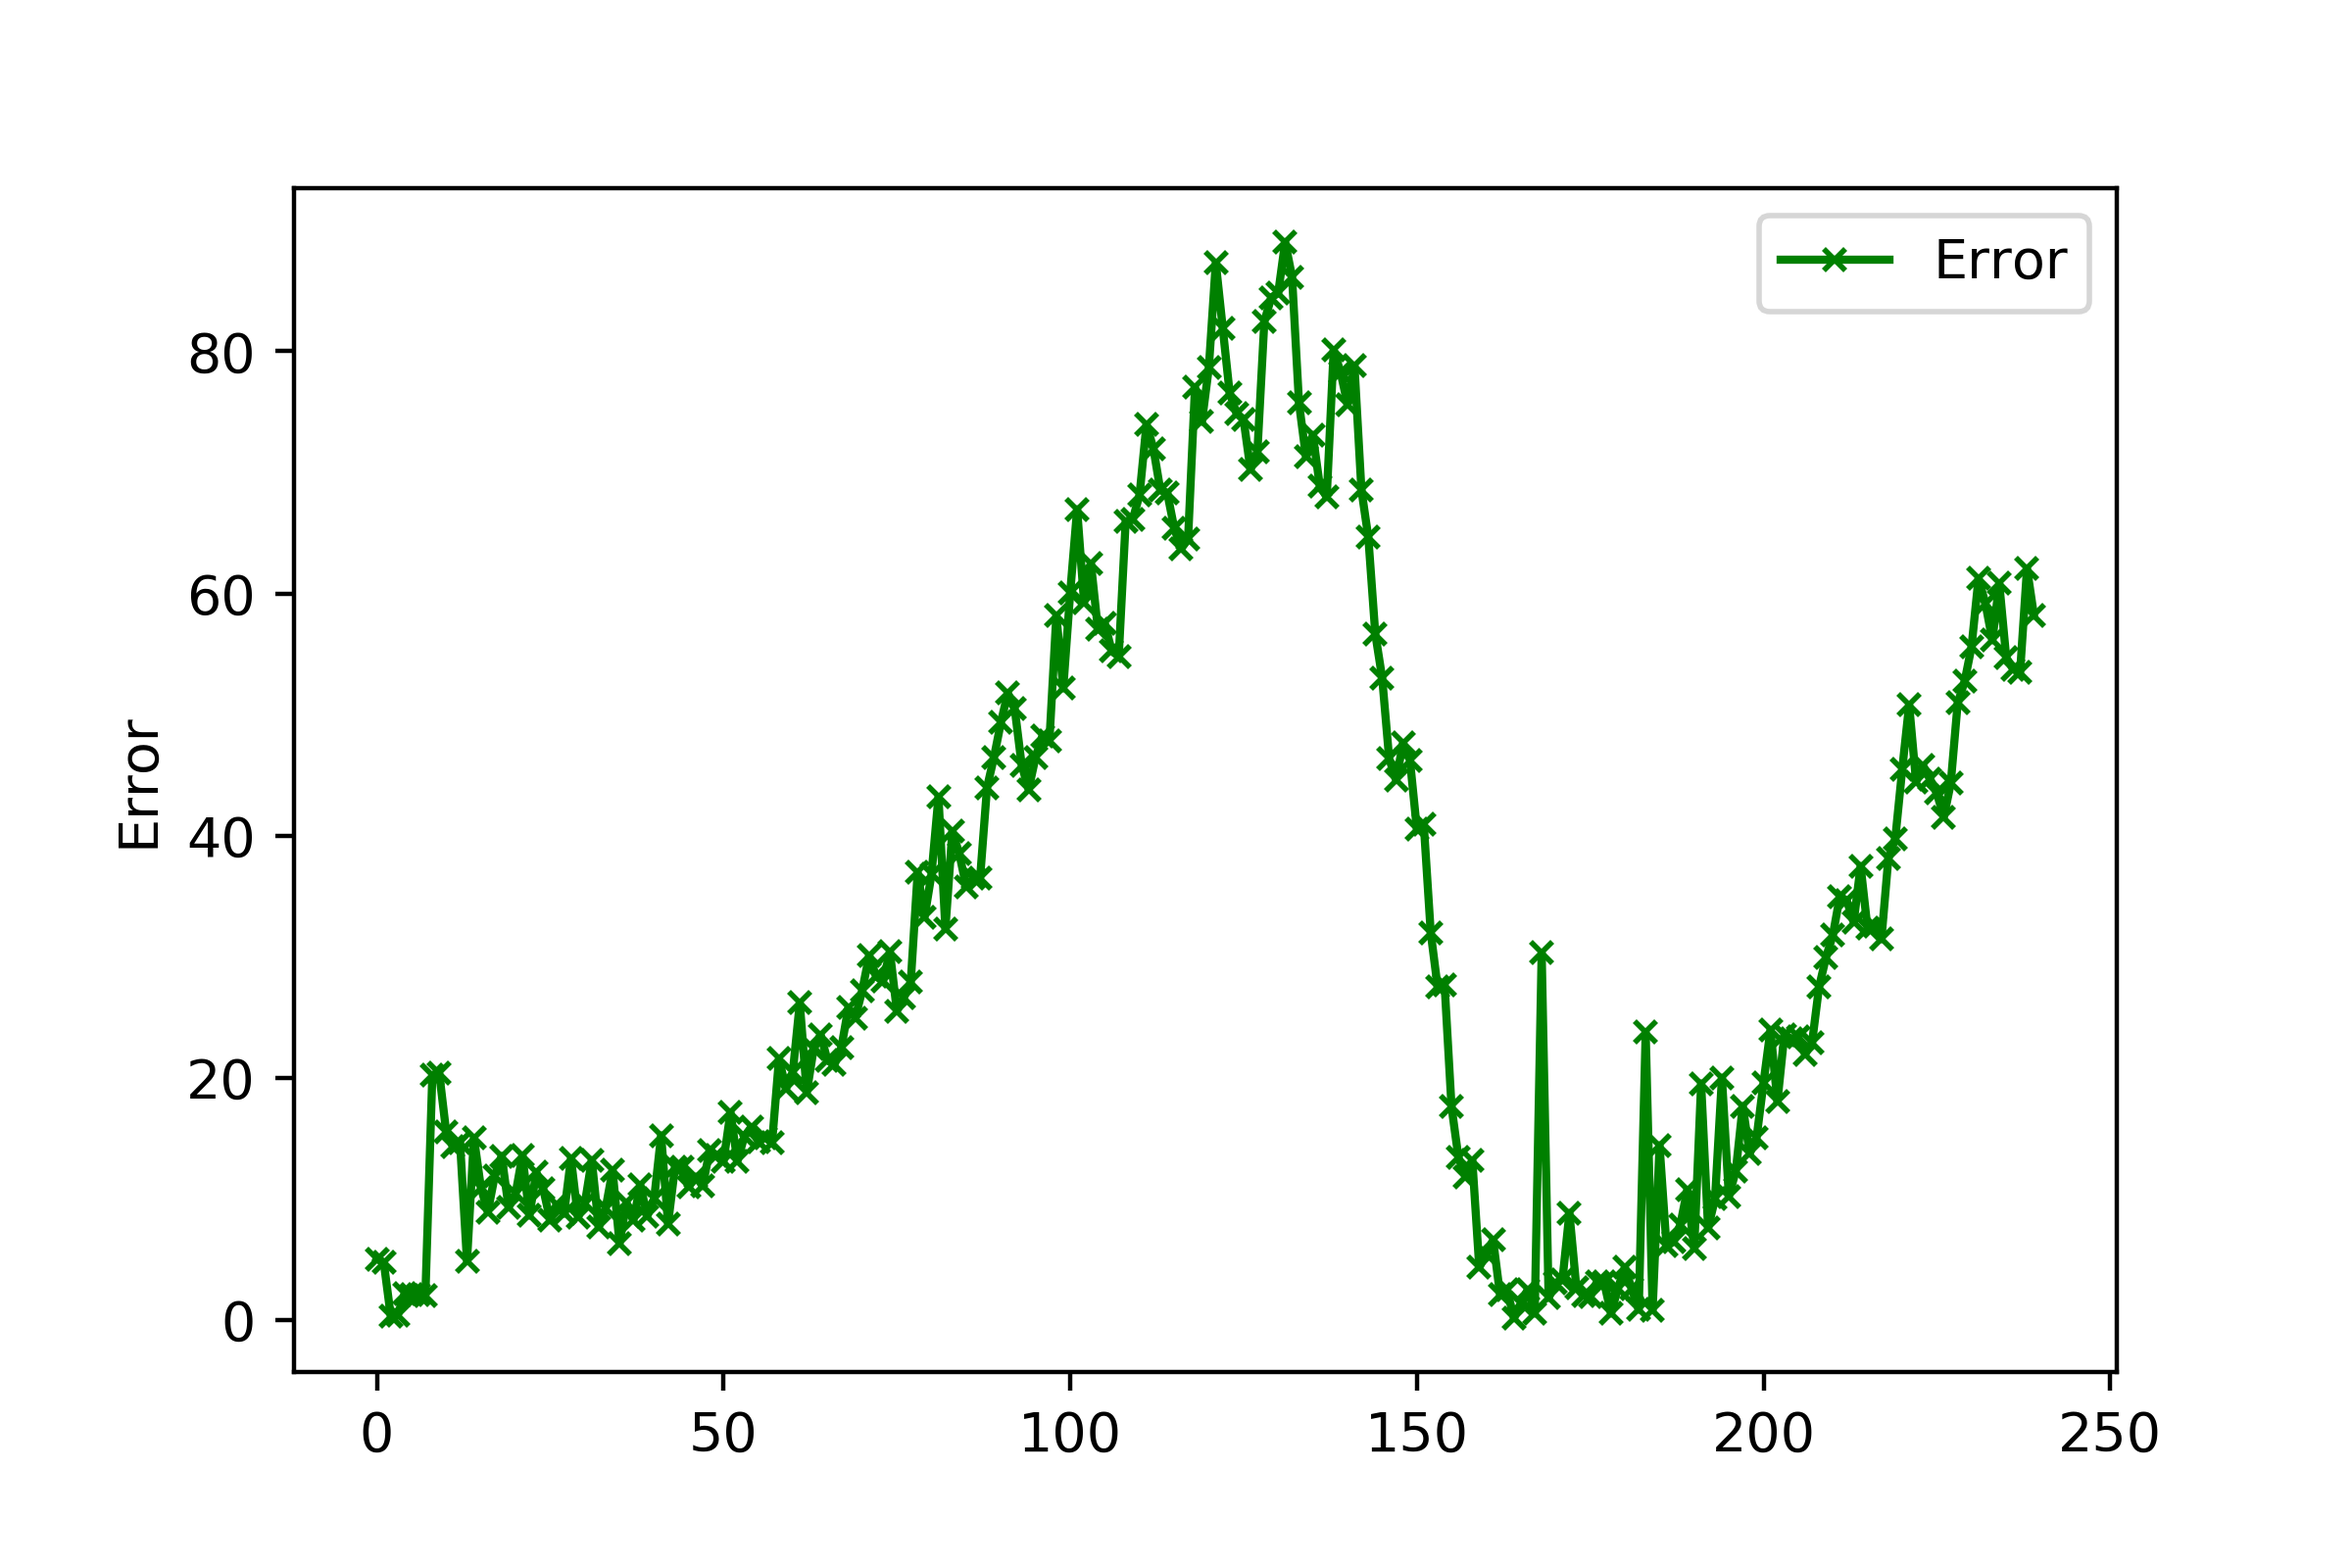
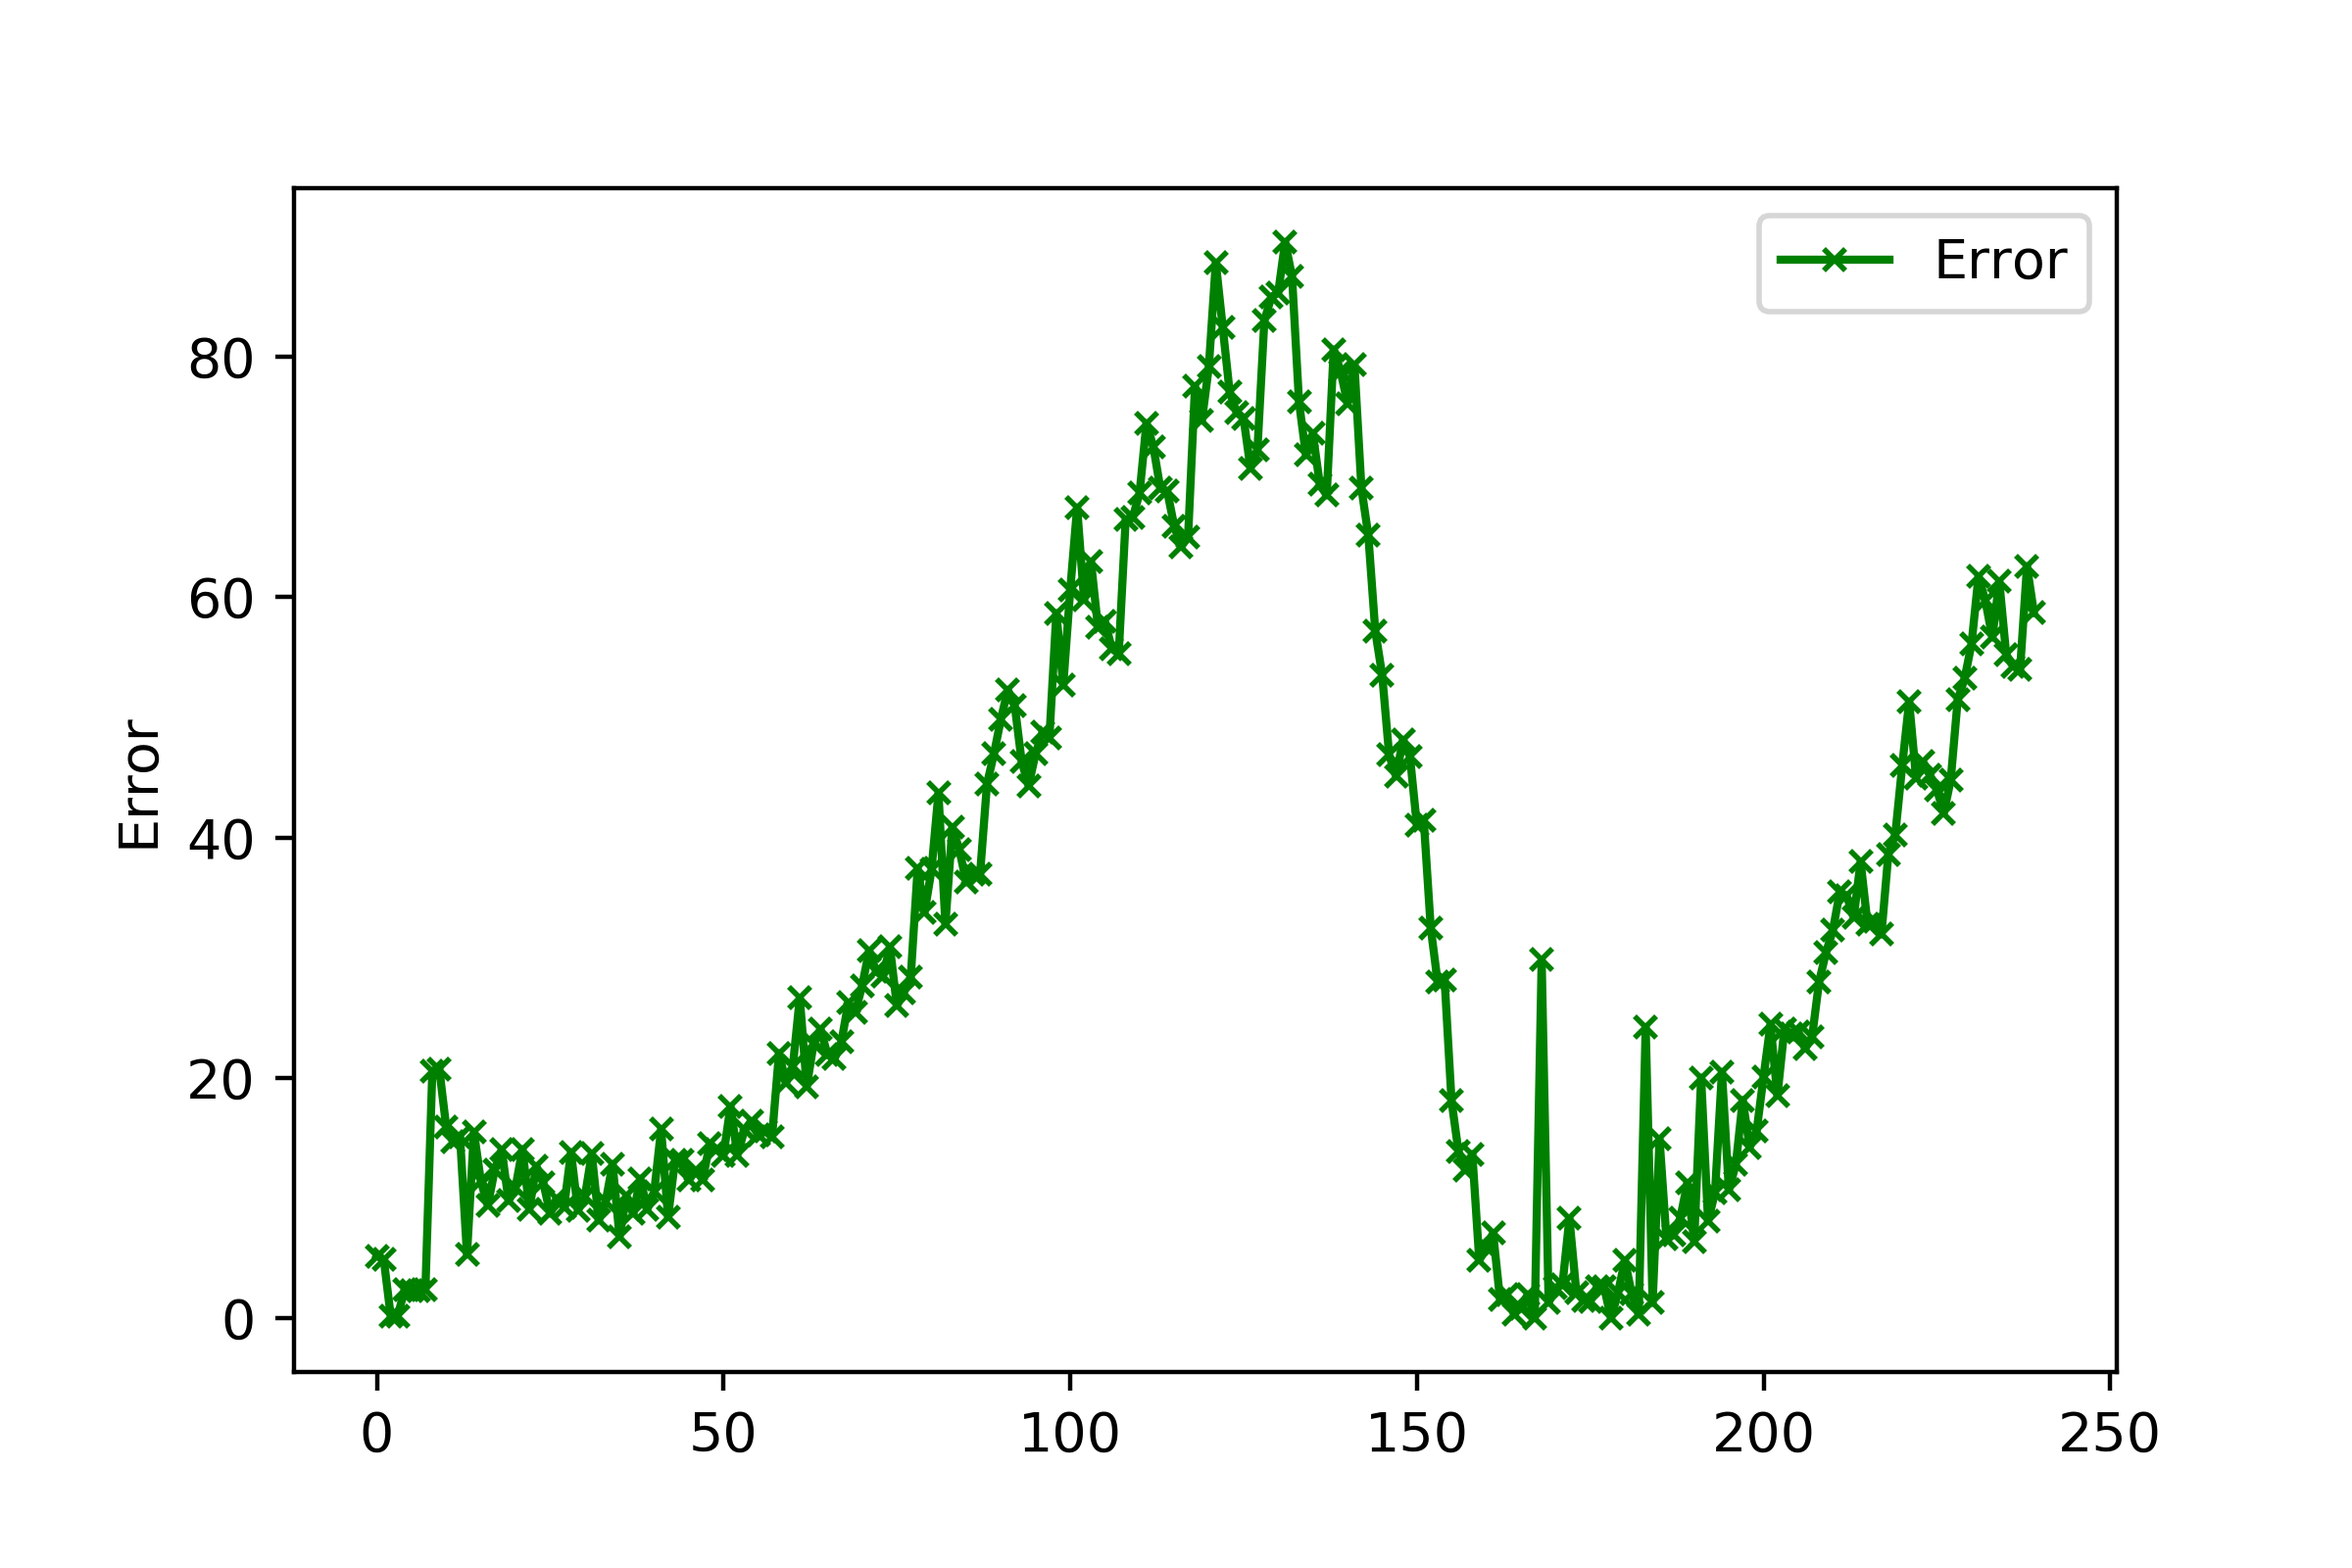
Only predict torque

diff --git a/main.py b/main.py
@@ -36,8 +36,8 @@ class EngineData:
             if file[-5:] != ".xlsx" or file[0:2] == '~$':
                 continue
 
-            # Store csv file in a Pandas DataFrame
-            df = pd.read_excel(self.path + file,usecols=[0,2,3]) # 
+            ## Store csv file in a Pandas DataFrame. Only read 'Id' and 'Torque'
+            df = pd.read_excel(self.path + file,usecols=[0,2])
             df_array.append(df)
         
         self.rawdata = pd.concat(df_array)
@@ -57,7 +57,7 @@ class EngineData:
     def getSequence(self,seq_len):
         if self.num_engines<0:
             self.getNumOfEngines()
-        self.sequence = np.zeros((self.num_engines,seq_len,2))
+        self.sequence = np.zeros((self.num_engines,seq_len,1))
         
         ## Set values
         index = -1
@@ -66,7 +66,7 @@ class EngineData:
             if id<seq_len:
                 if id==0:
                     index+=1
-                self.sequence[index][id] = [row['Angle'],row['Torque']]
+                self.sequence[index][id] = row['Torque']
 
 
 def plot_torque(angle,torques):
@@ -78,15 +78,15 @@ def plot_torque(angle,torques):
 
 def plot_pred_true(pred,truth):
     plt.figure()
-    plt.plot(pred[:,1], "-x", color="g", label="Predicted",markersize=4)
-    plt.plot(truth[:,1], color="b", label="Actual")
+    plt.plot(pred, "-x", color="g", label="Predicted",markersize=4)
+    plt.plot(truth, color="b", label="Actual")
     plt.ylabel('Angle-Torque')
     plt.legend()
     plt.savefig(fig_path+"pred_true.png",dpi=400)
 
 def plot_error(pred,truth):
     plt.figure()
-    error = np.abs(pred[:,1]-truth[:,1])
+    error = np.abs(pred-truth)
     plt.plot(error, "-x", color="g", label="Error",markersize=4)
     plt.ylabel('Error')
     plt.legend()
@@ -181,11 +181,11 @@ class Seq2Seq(nn.Module):
         ## Initial input is always the 'gruond truth time and angle'
         inputs = copy.deepcopy(trg[:,0,:])
 
-        for t in range(1, tq_len):
+        for t in range(0, tq_len-1):
             output, hidden, cell = self.decoder(inputs.to(self.device).float(), hidden, cell)
             
             #place predictions in a tensor holding predictions for each token
-            outputs[:,t-1,:] = output
+            outputs[:,t,:] = output
             
             #decide if we are going to use teacher forcing or not
             teacher_force = random.random() < teacher_forcing_ratio
@@ -193,7 +193,7 @@ class Seq2Seq(nn.Module):
             #if teacher forcing, use actual next token as next inputs
             #if not, use predicted token
             inputs = trg[:,t,:] if teacher_force else output
-        ## Add the last prediction
+        ## Store the last output
         outputs[:,tq_len-1,:] = output
         return outputs
 
@@ -330,7 +330,7 @@ def readModel(file_encoder,file_decoder,model):
     
 
 ## Valve Lash (VL) or Torque To Turn (TTT)
-TRACE = 'TTT'
+TRACE = 'VL'
 
 if torch.cuda.is_available():
     device = torch.device('cuda')
@@ -348,9 +348,9 @@ if torch.cuda.is_available():
     BATCH = 64
 else:
     device = torch.device('cpu')
-    model_path ="./model/"
-    ## Data is in on folder up. Not up loaded to github
+    ## Data is in one folder up. Not up loaded to github
     cwd_up = os.path.dirname(os.getcwd())
+    model_path = cwd_up + "./model/"
     if TRACE == 'VL':
         data_dir_train = cwd_up+"/data/test/VL/train/"
         data_dir_valid = cwd_up + "./data/test/VL/valid/"
@@ -372,9 +372,9 @@ print('device:',device)
 #torques = np.zeros((len(engines_train),NUM_DATA))
 LEARN_RATE = 0.001
 
-INPUT_DIM = 2
-OUTPUT_DIM = 2
-HID_DIM = 1024
+INPUT_DIM = 1
+OUTPUT_DIM = 1
+HID_DIM = 512
 N_LAYERS = 2
 ENC_DROPOUT = 0
 DEC_DROPOUT = 0
@@ -383,7 +383,7 @@ TEACHER_FORCING_RATIO_TRAIN = 0
 TEACHER_FORCING_RATIO_PRED = 0
 #BATCH = 64
 REVERSE = True
-LOADSAVEDDATA = False
+LOADSAVEDDATA = True
 
 
 encoder = Encoder(INPUT_DIM, HID_DIM, N_LAYERS, ENC_DROPOUT)
